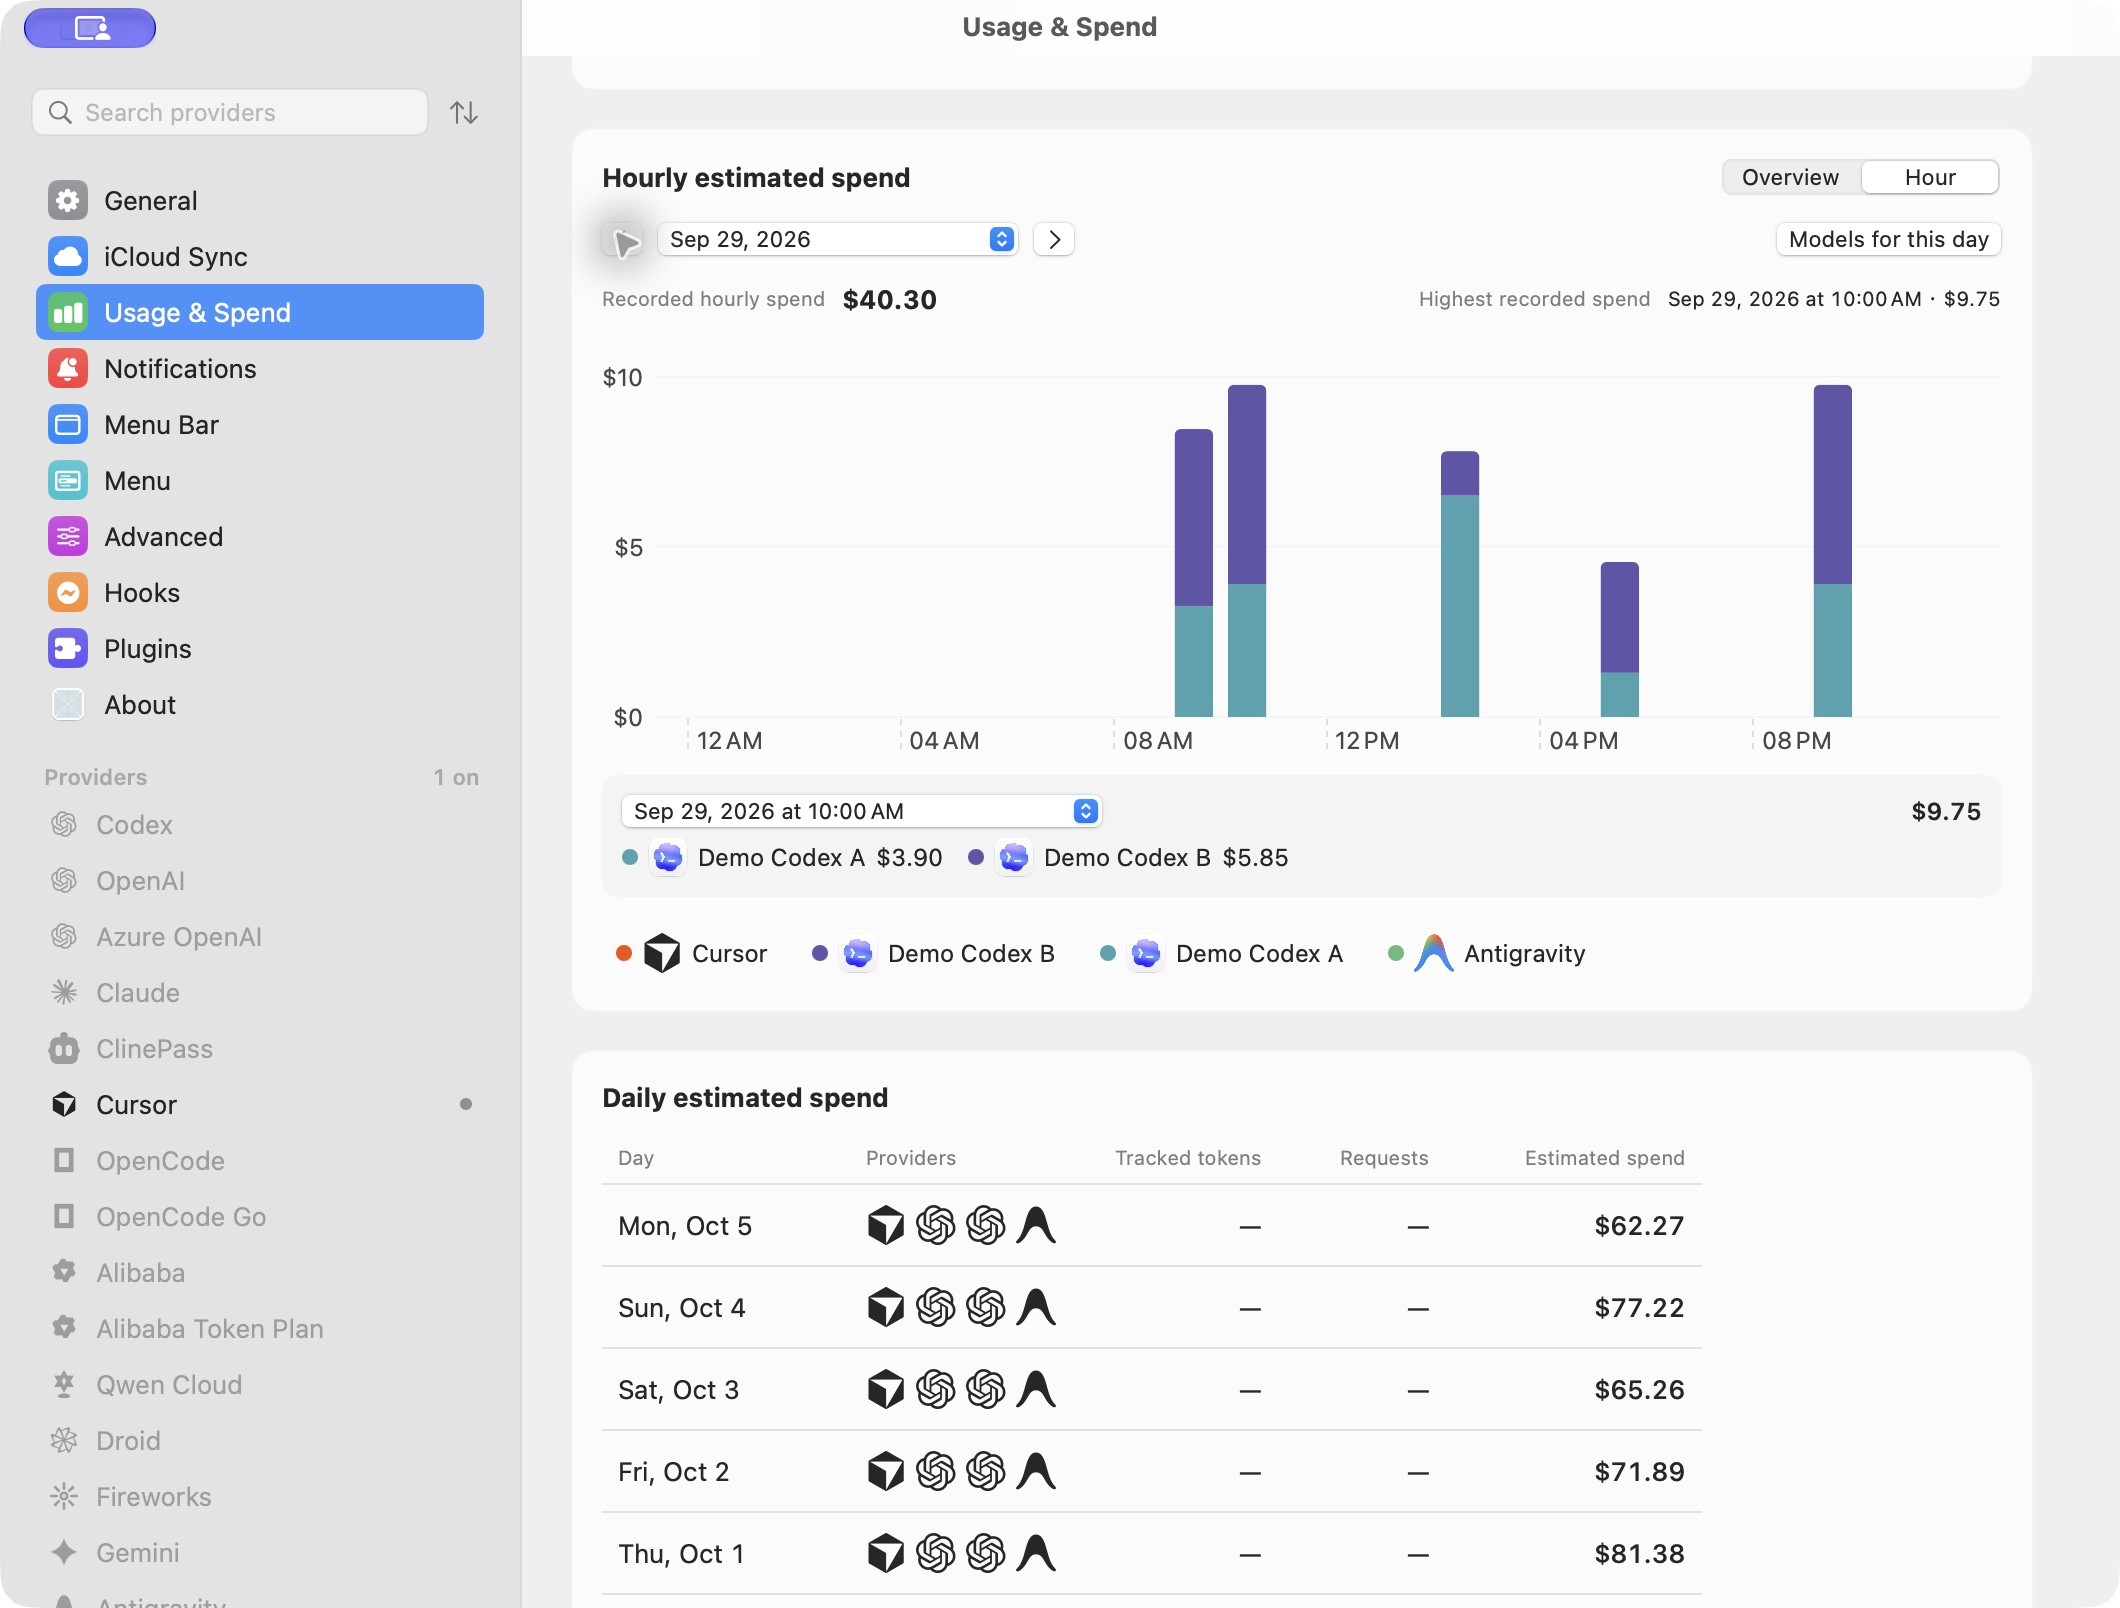
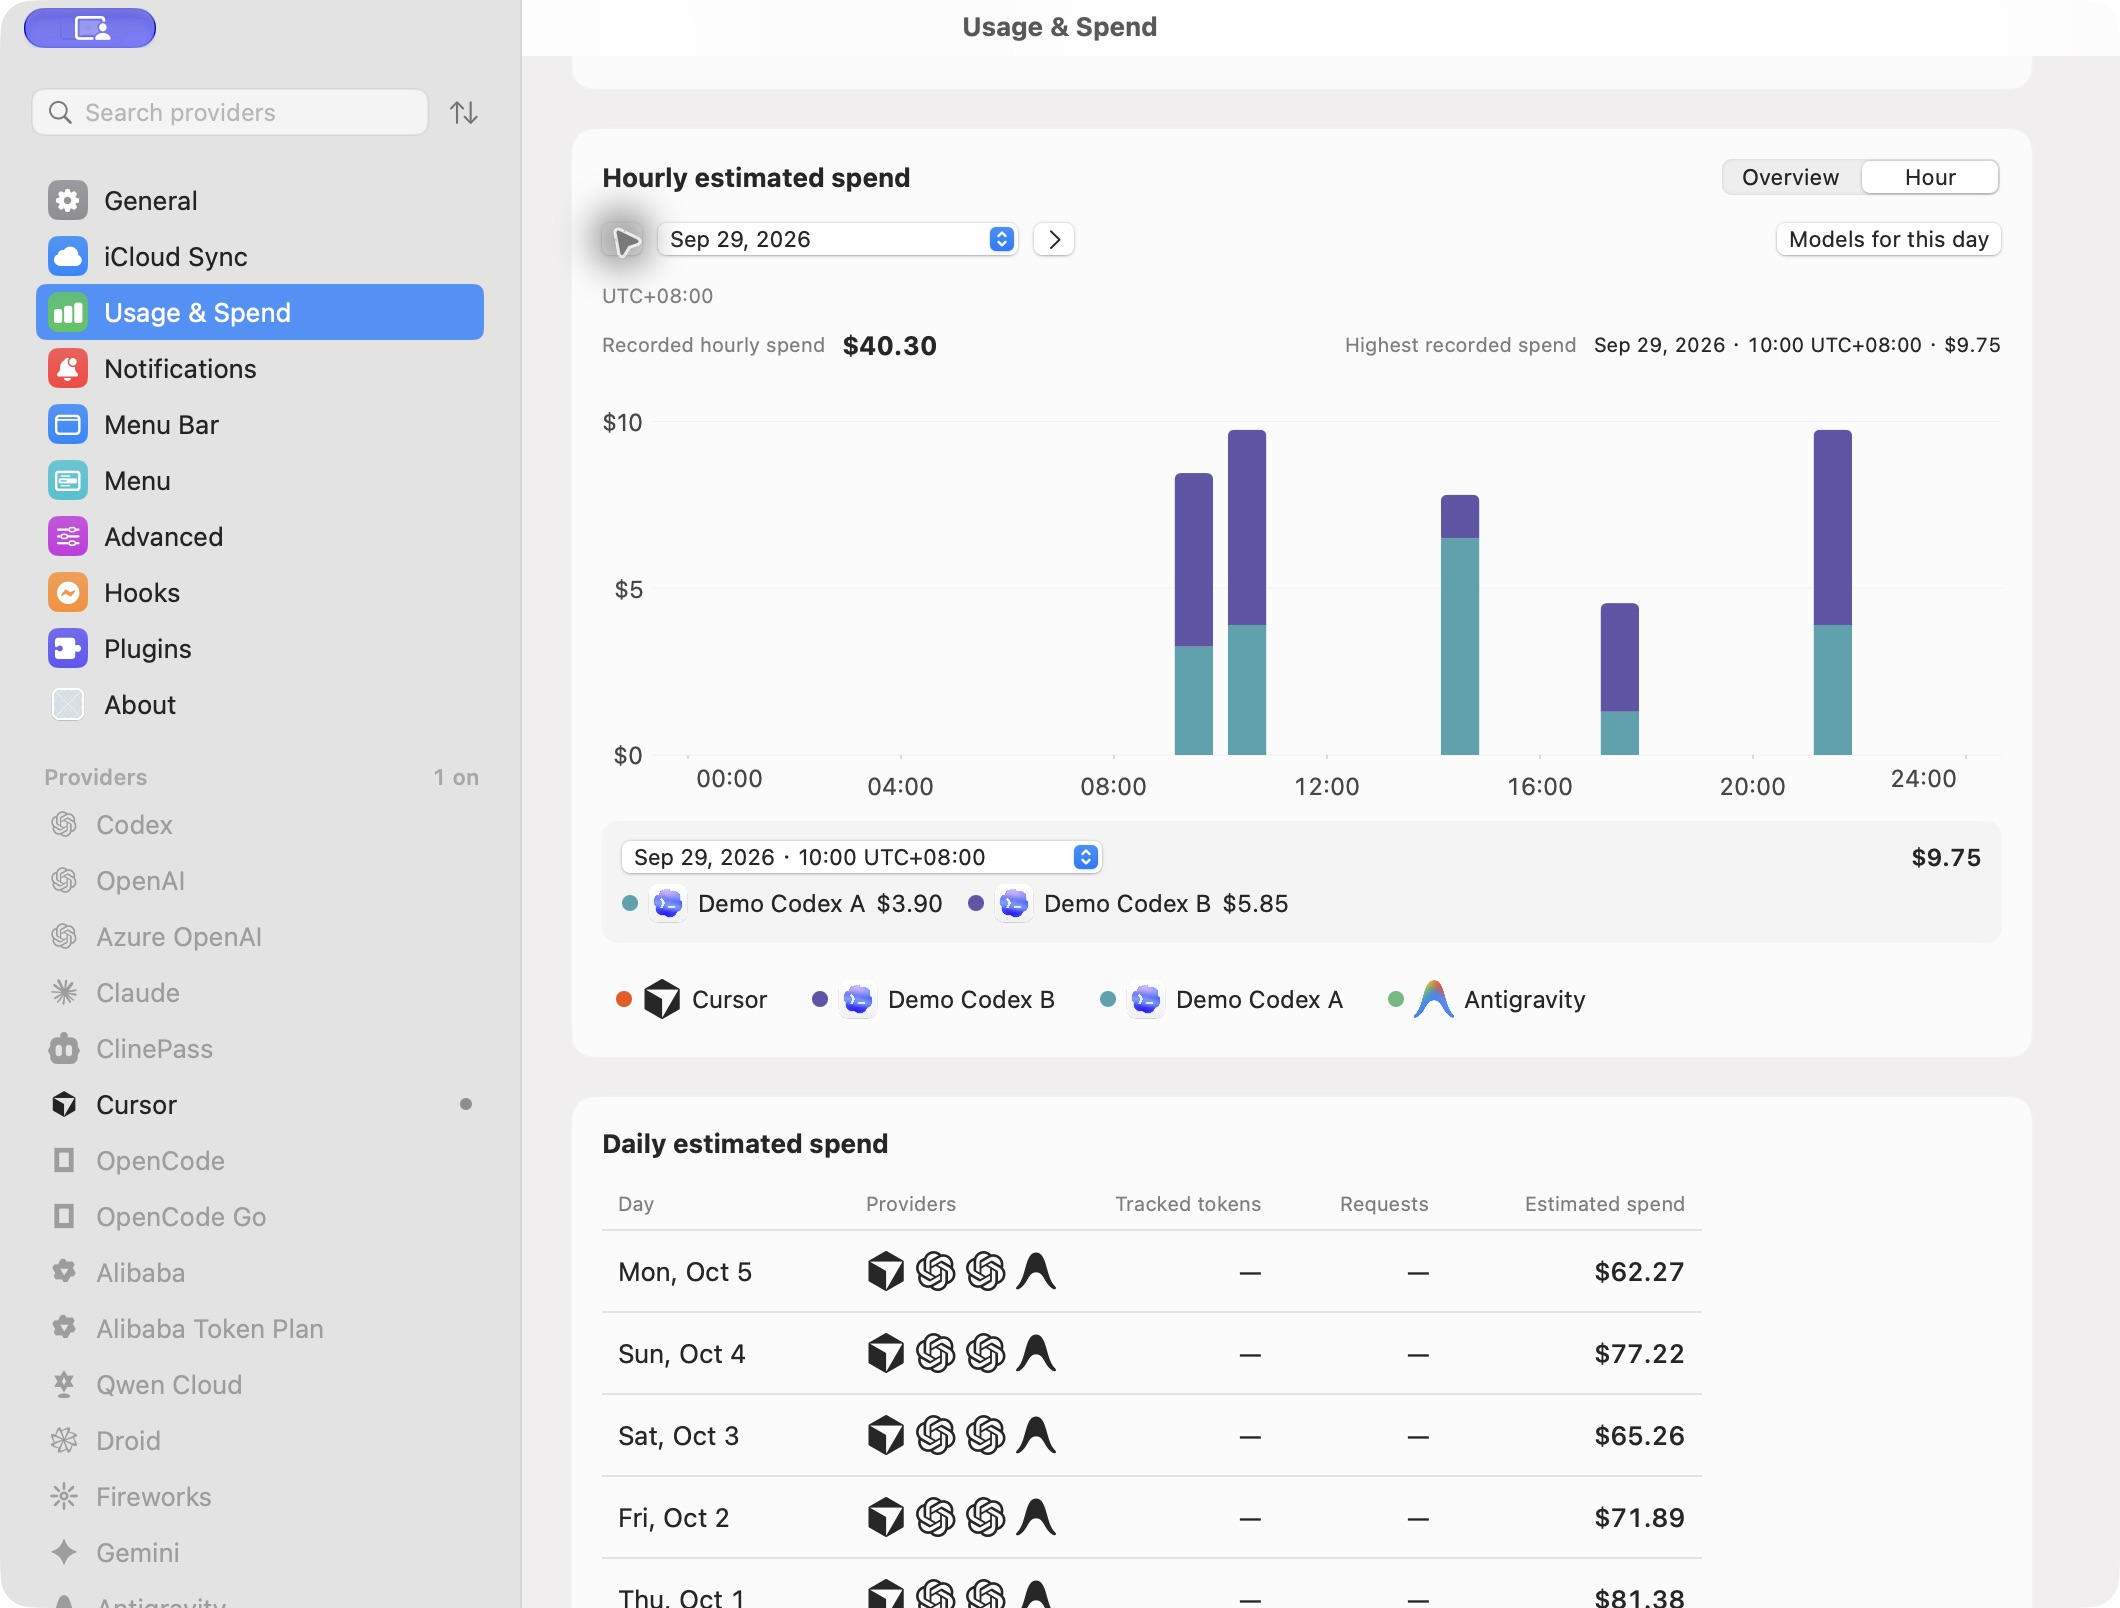
Clarify hourly spend times and time zones

diff --git a/Sources/CodexBar/SpendDashboardTrendPanel.swift b/Sources/CodexBar/SpendDashboardTrendPanel.swift
@@ -204,6 +204,13 @@ struct SpendTrendChart: View {
     var body: some View {
         let model = self.model
         VStack(alignment: .leading, spacing: 10) {
+            if self.section == .hourly {
+                Text(model.hourlyTimeZoneText)
+                    .font(.caption).monospacedDigit().foregroundStyle(.secondary)
+                    .help(self.group.timeZone.identifier)
+                    .accessibilityLabel("\(L("Statistics time zone")): \(model.hourlyTimeZoneText)")
+                    .accessibilityIdentifier("spend-trend-time-zone")
+            }
             if model.segments.isEmpty {
                 ContentUnavailableView(
                     self.section == .daily && self.group.totalCost == 0 && !self.group.hasPartialCost
@@ -290,11 +297,16 @@ struct SpendTrendChart: View {
         .chartYScale(domain: 0...max(0.01, (model.peak?.total ?? 0) * 1.15))
         .chartXAxis {
             if self.section == .hourly {
-                AxisMarks(values: self.hourlyTicks(model)) { value in
+                AxisMarks(preset: .aligned, values: model.hourlyTicks) { value in
                     AxisTick()
-                    AxisValueLabel {
+                    AxisValueLabel(
+                        centered: false,
+                        anchor: value.as(Date.self) == model.domain.upperBound ? .topTrailing
+                            : value.as(Date.self) == model.domain.lowerBound ? .topLeading : .top)
+                    {
                         if let date = value.as(Date.self) {
-                            Text(self.axisText(date, unit: model.unit))
+                            Text(model.hourlyAxisText(date))
+                                .monospacedDigit()
                                 .font(.callout).foregroundStyle(Color.primary.opacity(0.85)).fixedSize()
                         }
                     }
@@ -457,20 +469,13 @@ struct SpendTrendChart: View {
         return days > 14 ? 7 : days > 7 ? 3 : 1
     }
 
-    private func hourlyTicks(_ model: SpendTrendChartModel) -> [Date] {
-        stride(from: 0, to: 24, by: 4).compactMap { hour in
-            self.group.calendar.date(bySettingHour: hour, minute: 0, second: 0, of: model.domain.lowerBound)
-        }
-    }
-
     private func axisText(_ date: Date, unit: Calendar.Component) -> String {
         let format = Date.FormatStyle(
             locale: codexBarLocalizedLocale(),
             calendar: self.group.calendar,
             timeZone: self.group.timeZone)
         if unit == .month { return date.formatted(format.year(.twoDigits).month(.abbreviated)) }
-        return date
-            .formatted(self.section == .hourly ? format.hour(.twoDigits(amPM: .abbreviated)) : format.month().day())
+        return date.formatted(format.month().day())
     }
 
     private func groupingText(_ model: SpendTrendChartModel) -> String {
@@ -493,12 +498,9 @@ struct SpendTrendChart: View {
             locale: codexBarLocalizedLocale(),
             calendar: self.group.calendar,
             timeZone: self.group.timeZone).year().month(.abbreviated).day()
-        let text = date.formatted(self.section == .hourly ? format.hour().minute() : format)
-        if self.section == .hourly,
-           self.group.calendar.dateInterval(of: .day, for: date)?.duration != 86400,
-           let abbreviation = self.group.timeZone.abbreviation(for: date)
-        { return "\(text) \(abbreviation)" }
-        return text
+        let text = date.formatted(format)
+        return self.section == .hourly
+            ? "\(text) · \(SpendTrendChartModel.hourText(date, calendar: self.group.calendar))" : text
     }
 
     private func sourceText(_ segment: SpendTrendChartModel.Segment) -> String {

diff --git a/Tests/CodexBarTests/SpendTrendChartRenderTests.swift b/Tests/CodexBarTests/SpendTrendChartRenderTests.swift
@@ -36,17 +36,26 @@ final class SpendTrendChartRenderTests: XCTestCase {
             requestedDays: 365,
             now: now,
             calendar: calendar).groups.first)
-        for (name, section, width, appearance, chartGroup) in [
-            ("02-daily-overview", SpendDashboardTrendSection.daily, 760.0, NSAppearance.Name.aqua, group),
-            ("03-hourly-day", .hourly, 760, .aqua, group),
-            ("04-narrow-hourly", .hourly, 480, .aqua, group),
-            ("05-dark-hourly", .hourly, 760, .darkAqua, group),
-            ("06-dark-long-range", .daily, 760, .darkAqua, longGroup),
-            ("07-narrow-long-range", .daily, 480, .darkAqua, longGroup),
-            ("08-year-overview", .daily, 760, .aqua, yearGroup),
-            ("09-component-icons", .daily, 760, .darkAqua, longGroup),
+        for (name, section, width, appearance, chartGroup, language, locale) in [
+            (
+                "02-daily-overview",
+                SpendDashboardTrendSection.daily,
+                760.0,
+                NSAppearance.Name.aqua,
+                group,
+                "zh-Hans",
+                "zh_CN"),
+            ("03-hourly-day", .hourly, 760, .aqua, group, "zh-Hans", "zh_CN"),
+            ("04-narrow-hourly", .hourly, 480, .aqua, group, "zh-Hans", "zh_CN"),
+            ("05-dark-hourly", .hourly, 760, .darkAqua, group, "zh-Hans", "zh_CN"),
+            ("06-dark-long-range", .daily, 760, .darkAqua, longGroup, "zh-Hans", "zh_CN"),
+            ("07-narrow-long-range", .daily, 480, .darkAqua, longGroup, "zh-Hans", "zh_CN"),
+            ("08-year-overview", .daily, 760, .aqua, yearGroup, "zh-Hans", "zh_CN"),
+            ("09-component-icons", .daily, 760, .darkAqua, longGroup, "zh-Hans", "zh_CN"),
+            ("10-english-hourly", .hourly, 760, .aqua, group, "en", "en_US"),
+            ("11-german-narrow-hourly", .hourly, 480, .darkAqua, group, "de", "de_DE"),
         ] {
-            try await CodexBarLocalizationOverride.$appLanguage.withValue("zh-Hans") {
+            try await CodexBarLocalizationOverride.$appLanguage.withValue(language) {
                 let view = VStack(alignment: .leading, spacing: 16) {
                     SpendDashboardTrendPanel(
                         group: chartGroup,
@@ -57,7 +66,7 @@ final class SpendTrendChartRenderTests: XCTestCase {
                     }
                 }
                 .padding(20).frame(width: width)
-                .environment(\.locale, Locale(identifier: "zh_CN"))
+                .environment(\.locale, Locale(identifier: locale))
                 .background(Color(nsColor: .windowBackgroundColor))
                 let hosting = NSHostingView(rootView: view)
                 hosting.appearance = NSAppearance(named: appearance)

diff --git a/Tests/CodexBarTests/SpendTrendChartTests.swift b/Tests/CodexBarTests/SpendTrendChartTests.swift
@@ -5,6 +5,29 @@ import Testing
 @testable import CodexBar
 
 struct SpendTrendChartTests {
+    @Test(arguments: ["zh_CN", "en_US", "de_DE", "ar_SA"])
+    func `hour labels retain minutes and a twenty four hour clock across locales`(locale: String) throws {
+        var calendar = Calendar(identifier: .gregorian)
+        calendar.locale = Locale(identifier: locale)
+        calendar.timeZone = try #require(TimeZone(identifier: "Asia/Shanghai"))
+        for (hour, minute, text) in [(0, 0, "00:00"), (9, 0, "09:00"), (13, 5, "13:05"), (23, 59, "23:59")] {
+            let date = try #require(calendar.date(from: DateComponents(
+                year: 2026, month: 10, day: 5, hour: hour, minute: minute)))
+            #expect(SpendTrendChartModel.clockText(date, calendar: calendar) == text)
+            #expect(SpendTrendChartModel.hourText(date, calendar: calendar) == "\(text) UTC+08:00")
+        }
+    }
+
+    @Test(arguments: [("UTC", "UTC"), ("Asia/Kolkata", "UTC+05:30"), ("America/St_Johns", "UTC-03:30")])
+    func `hour labels use the reporting zone and retain fractional UTC offsets`(
+        zone: String, offset: String) throws
+    {
+        var calendar = Calendar(identifier: .gregorian)
+        calendar.timeZone = try #require(TimeZone(identifier: zone))
+        let date = try #require(calendar.date(from: DateComponents(year: 2026, month: 1, day: 5, hour: 9)))
+        #expect(SpendTrendChartModel.hourText(date, calendar: calendar) == "09:00 \(offset)")
+    }
+
     @Test(arguments: [nil, "unpriced"] as [String?])
     func `priced chart records never become a complete total when another record is unpriced`(
         sourceID: String?) throws
@@ -131,6 +154,14 @@ struct SpendTrendChartTests {
         let model = SpendTrendChartModel(group: group, section: .hourly, day: day)
         #expect(model.domain.upperBound.timeIntervalSince(day) == Double(hours) * 3600)
         #expect(model.buckets.count == hours)
+        #expect(model.hourlyTicks.map { model.hourlyAxisText($0) }
+            == ["00:00", "04:00", "08:00", "12:00", "16:00", "20:00", "24:00"])
+        #expect(model.hourlyTicks.last == interval.end)
+        #expect(model.hourlyTimeZoneText == (hours == 23 ? "UTC-08:00 → UTC-07:00" : "UTC-07:00 → UTC-08:00"))
+        if hours == 25 {
+            #expect(SpendTrendChartModel.hourText(points[1].hour, calendar: calendar) == "01:00 UTC-07:00")
+            #expect(SpendTrendChartModel.hourText(points[2].hour, calendar: calendar) == "01:00 UTC-08:00")
+        }
         for point in points {
             #expect(model.bucket(at: point.hour.addingTimeInterval(1800))?.date == point.hour)
         }

diff --git a/Sources/CodexBar/SpendTrendChartModel.swift b/Sources/CodexBar/SpendTrendChartModel.swift
@@ -141,6 +141,49 @@ struct SpendTrendChartModel {
         self.unit == .day && self.domain.upperBound.timeIntervalSince(self.domain.lowerBound) > 32 * 86400
     }
 
+    var hourlyTicks: [Date] {
+        let ticks = stride(from: 0, to: 24, by: 4).compactMap { hour in
+            self.calendar.date(bySettingHour: hour, minute: 0, second: 0, of: self.domain.lowerBound)
+        }
+        return ticks.filter { $0 >= self.domain.lowerBound && $0 < self.domain.upperBound }
+            + [self.domain.upperBound]
+    }
+
+    func hourlyAxisText(_ date: Date) -> String {
+        date == self.domain.upperBound ? "24:00" : Self.clockText(date, calendar: self.calendar)
+    }
+
+    var hourlyTimeZoneText: String {
+        let start = Self.utcOffsetText(self.domain.lowerBound, timeZone: self.calendar.timeZone)
+        let end = Self.utcOffsetText(self.domain.upperBound.addingTimeInterval(-1), timeZone: self.calendar.timeZone)
+        return start == end ? start : "\(start) → \(end)"
+    }
+
+    /// Clock notation is language independent; surrounding dates and UI labels remain localized.
+    static func clockText(_ date: Date, calendar: Calendar) -> String {
+        String(
+            format: "%02d:%02d",
+            locale: Locale(identifier: "en_US_POSIX"),
+            calendar.component(.hour, from: date),
+            calendar.component(.minute, from: date))
+    }
+
+    static func hourText(_ date: Date, calendar: Calendar) -> String {
+        "\(self.clockText(date, calendar: calendar)) \(self.utcOffsetText(date, timeZone: calendar.timeZone))"
+    }
+
+    static func utcOffsetText(_ date: Date, timeZone: TimeZone) -> String {
+        let offset = timeZone.secondsFromGMT(for: date)
+        guard offset != 0 else { return "UTC" }
+        let minutes = abs(offset) / 60
+        return String(
+            format: "UTC%@%02d:%02d",
+            locale: Locale(identifier: "en_US_POSIX"),
+            offset < 0 ? "-" : "+",
+            minutes / 60,
+            minutes % 60)
+    }
+
     /// No nearest-point fallback: hovering a gap must not silently show a different hour's spend.
     func bucket(at date: Date) -> Bucket? {
         let start = self.calendar.dateInterval(of: self.unit, for: date)?.start

diff --git a/docs/proof/spend-chart-readability/README.md b/docs/proof/spend-chart-readability/README.md
@@ -28,7 +28,7 @@ The [runtime transcript](interaction-transcript.json) contains actual accessibil
 | Select Oct 5 from the date menu | Latest recorded day; Next day is disabled | [10](screenshots/10-date-menu-selected.jpg) |
 | Open/dismiss hourly inspection menu | Focused date and exact amounts persist | Transcript step 11 |
 
-English hour ticks visibly include AM/PM. Provider icons share a 20-point slot, with transparent brand artwork padding compensated; different Codex accounts retain distinct source colors.
+Hour ticks use `00:00` through `24:00` in every language. The hourly view shows its reporting UTC offset, and the amount inspector includes the offset for each hour so repeated daylight-saving hours remain distinct. Dates and surrounding UI retain their selected-language formatting. Provider icons share a 20-point slot, with transparent brand artwork padding compensated; different Codex accounts retain distinct source colors.
 
 ## Reproduce
 

diff --git a/docs/screenshots/spend-chart-readability/README.md b/docs/screenshots/spend-chart-readability/README.md
@@ -13,8 +13,11 @@ are included.
 
 - `weekly-dark.png`: four-month history grouped by week, persistent amount inspection and distinct
   colors for two Codex accounts; official product marks retain their original colors.
-- `hourly-light.png`: one day of recorded hourly spend with date navigation and per-account amounts.
+- `hourly-light.png`: one day of recorded hourly spend with 24-hour clock ticks, a visible UTC offset,
+  date navigation and per-account amounts.
 - `component-icons.png`: consistent icon sizing in the chart, inspector and provider/account rows.
+- `hourly-english.png`: the same clock notation with English dates and UI.
+- `hourly-german-narrow.png`: German dates and UI in a narrow dark layout, including both day-boundary ticks.
 
 Images are unmodified output from the offline render test. The test requires credential/session
 isolation and only writes screenshots when `CODEXBAR_SPEND_TREND_PROOF_DIR` is explicitly set.
